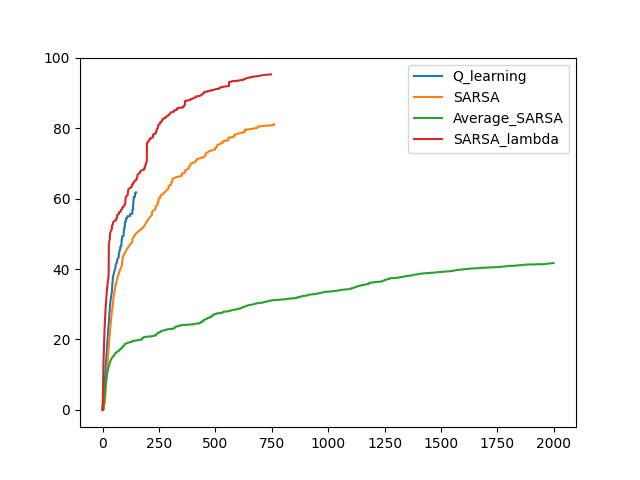
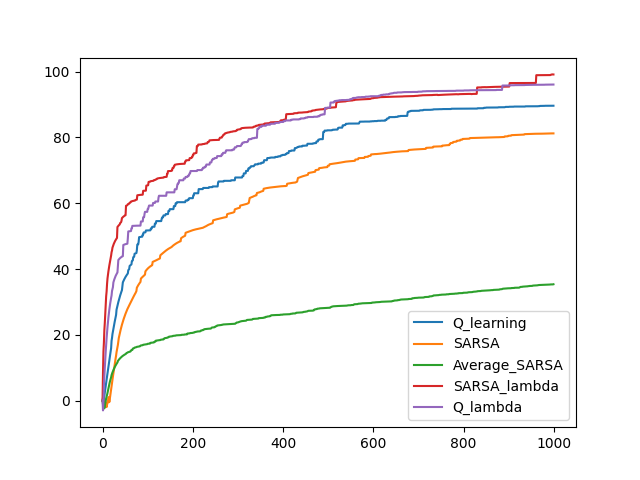
add Q_lambda

diff --git a/src/AI/algorithm.py b/src/AI/algorithm.py
@@ -27,7 +27,7 @@ class Agent:
         self,
         env,
         ahook=None,
-        episodes=2000,
+        episodes=1000,
         config_file=None,
         q_file=defaultQfile,
         conv_file=defaultConvfile,
@@ -233,7 +233,7 @@ class Agent:
         while episode < self.episodes:
             state = self.env.reset()
             action = self.epsilon_greedy_policy(state=state)
-            if algorithm == "SARSA_lambda":
+            if algorithm == "SARSA_lambda" or algorithm == "Q_lambda":
                 self._clear_et()
             # self.epsilon_decay(episode)
             done = False
@@ -250,18 +250,31 @@ class Agent:
                 else:
                     if algorithm == "SARSA" or algorithm == "SARSA_lambda":
                         target_q = self.q_table.at[next_state, next_action]
-                    elif algorithm == "Q_learning":
+                    elif algorithm == "Q_learning" or algorithm == "Q_lambda":
                         target_q = self.q_table.loc[next_state, :].max()
+                        if algorithm == "Q_lambda":
+                            exploration = not target_q == self.q_table.at[next_state, next_action]
                     elif algorithm == "Average_SARSA":
                         target_q = self.q_table.loc[next_state, :].mean()
                     td_target = reward + self.gamma * target_q
                 td_error = td_target - q
-                if algorithm == "SARSA_lambda":
+                if algorithm == "SARSA_lambda" or algorithm == "Q_lambda":
                     self.eligibility_trace.at[state, action] += 1
+                    ##print(self.q_table)
+                    ##self.q_table = pd.DataFrame(self.q_table.values * self.alpha * td_error * self.eligibility_trace.values, 
+                    ##        columns=self.q_table.columns, index=self.q_table.index)
+                    ##print(self.q_table)
+                    ##self.eligibility_trace = self.eligibility_trace.multiply(self.gamma * self.lmd)
                     for s in self.env.observation_space:
                         for a in self.env.action_space:
                             self.q_table.at[s, a] += self.alpha * td_error * self.eligibility_trace.at[s, a]
-                            self.eligibility_trace.at[s, a] *= self.gamma * self.lmd
+                            if algorithm == "SARSA_lambda":
+                                self.eligibility_trace.at[s, a] *= self.gamma * self.lmd
+                            elif algorithm == "Q_lambda":
+                                if exploration:
+                                    self.eligibility_trace.at[s, a] = 0
+                                else:
+                                    self.eligibility_trace.at[s, a] *= self.gamma * self.lmd
                 else:
                     self.q_table.at[state, action] += self.alpha * td_error
                 state = next_state
@@ -272,8 +285,8 @@ class Agent:
             conv = np.append(conv, self.q_table.sum().sum())
             conv_filename = f"{self.env.name}-{algorithm}-train-Q_convergence.txt"
             self.save_conv(self.result_path / conv_filename, conv)
-            if episode > 2 and abs(conv[-1] - conv[-2]) < self.phi:
-                break
+            #if episode > 2 and abs(conv[-1] - conv[-2]) < self.phi:
+            #    break
         return episode
 
     def SARSA_train(self):

diff --git a/src/TreasureHunt2D/TreasureHunt2D.py b/src/TreasureHunt2D/TreasureHunt2D.py
@@ -138,8 +138,8 @@ class TreasureHunt2D:
         amoves = self.available_moves(pos=(0, 1))
         print(amoves)
 
-    @check_pos
-    def render(self, pos=None):
+    def render(self):
+        pos = self.pos
         for x, row in self._maps.iterrows():
             print('|', end='')
             for y, col in row.iteritems():

diff --git a/analyze.py b/analyze.py
@@ -5,7 +5,7 @@ import numpy as np
 results_path = pathlib.Path("results")
 fig_path = pathlib.Path("figs")
 
-algorithms = ["Q_learning", "SARSA", "Average_SARSA", "SARSA_lambda"]
+algorithms = ["Q_learning", "SARSA", "Average_SARSA", "SARSA_lambda", "Q_lambda"]
 env = "TreasureHunt1D"
 
 stage = "train"
